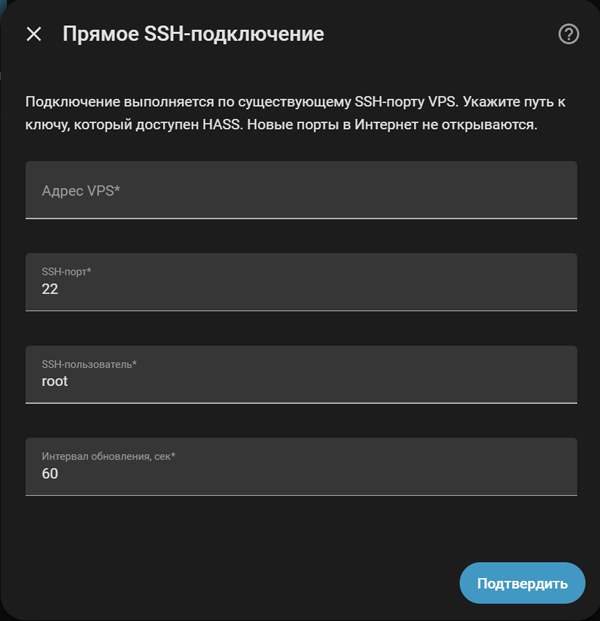
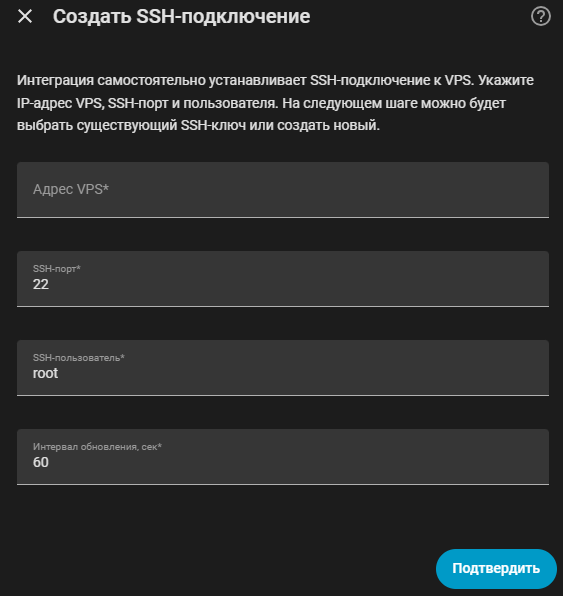
feat: improve VPS diagnostics and refresh state

diff --git a/custom_components/zvertbotvps/sensor.py b/custom_components/zvertbotvps/sensor.py
@@ -324,17 +324,28 @@ class VPSFreshnessSensor(VPSBaseEntity):
 
     @property
     def native_value(self):
-        value = self.coordinator.data.get("updated_at")
+        value = self.coordinator.last_refresh
         if not value:
             return None
+
         timestamp = dt_util.parse_datetime(value)
         if timestamp is None:
             return None
-        return round(max(0, (dt_util.utcnow() - timestamp).total_seconds() / 60), 1)
+
+        return round(
+            max(
+                0,
+                (dt_util.utcnow() - timestamp).total_seconds() / 60,
+            ),
+            1,
+        )
 
     @property
     def extra_state_attributes(self):
-        return {"updated_at": self.coordinator.data.get("updated_at")}
+        return {
+            "last_refresh": self.coordinator.last_refresh,
+            "server_updated_at": self.coordinator.data.get("updated_at"),
+        }
 
 
 class VPSConnectionStateSensor(VPSBaseEntity):
@@ -352,7 +363,9 @@ class VPSConnectionStateSensor(VPSBaseEntity):
     def extra_state_attributes(self):
         return {
             "mode": self.coordinator.mode,
+            "port": self.coordinator.connection_port,
             "last_success": self.coordinator.last_success,
+            "last_refresh": self.coordinator.last_refresh,
             "last_error": self.coordinator.last_error,
             "consecutive_failures": self.coordinator.consecutive_failures,
             "next_retry": self.coordinator.next_retry,
@@ -379,50 +392,137 @@ class VPSSSHKeySensor(VPSBaseEntity):
         self._attr_unique_id = f"{coordinator.entry.entry_id}_ssh_key"
 
     @property
-    def native_value(self):
-        from pathlib import Path
-
-        path = Path(
-            str(self.coordinator.settings.get("key_path", ""))
+    def _key_path(self) -> Path:
+        configured = self.coordinator.settings.get("key_path")
+        return Path(
+            str(configured or "/config/ssh/vps_key")
         ).expanduser()
+
+    @property
+    def native_value(self):
+        path = self._key_path
         return "найден" if path.is_file() else "не найден"
 
     @property
     def extra_state_attributes(self):
-        from pathlib import Path
         import base64
         import hashlib
         from datetime import datetime
 
-        path = Path(
-            str(self.coordinator.settings.get("key_path", ""))
-        ).expanduser()
+        coordinator = self.coordinator
+        path = self._key_path
         public_path = Path(f"{path}.pub")
 
         fingerprint = None
+
+        # Prefer the public key file when available.
         if public_path.is_file():
             try:
-                parts = public_path.read_text(encoding="utf-8").split()
+                parts = public_path.read_text(
+                    encoding="utf-8"
+                ).split()
+
                 if len(parts) >= 2:
-                    blob = base64.b64decode(parts[1], validate=True)
-                    fingerprint = "SHA256:" + base64.b64encode(
-                        hashlib.sha256(blob).digest()
-                    ).decode("ascii").rstrip("=")
+                    blob = base64.b64decode(
+                        parts[1],
+                        validate=True,
+                    )
+                    fingerprint = (
+                        "SHA256:"
+                        + base64.b64encode(
+                            hashlib.sha256(blob).digest()
+                        ).decode("ascii").rstrip("=")
+                    )
             except (OSError, ValueError, IndexError):
                 fingerprint = None
 
+        # If .pub is missing or invalid, ask ssh-keygen to derive
+        # the public key/fingerprint from the private key.
+        if fingerprint is None and path.is_file():
+            try:
+                import shutil
+                import subprocess
+
+                ssh_keygen = shutil.which("ssh-keygen")
+                if ssh_keygen:
+                    result = subprocess.run(
+                        [
+                            ssh_keygen,
+                            "-lf",
+                            str(path),
+                            "-E",
+                            "sha256",
+                        ],
+                        capture_output=True,
+                        text=True,
+                        stdin=subprocess.DEVNULL,
+                        timeout=5,
+                        check=False,
+                    )
+
+                    if result.returncode == 0:
+                        parts = result.stdout.strip().split()
+                        if len(parts) >= 2:
+                            fingerprint = parts[1]
+            except (
+                OSError,
+                subprocess.SubprocessError,
+                ValueError,
+            ):
+                fingerprint = None
+
         modified = None
+        permissions = None
+
         if path.is_file():
             try:
+                stat = path.stat()
+                permissions = oct(stat.st_mode & 0o777)
                 modified = datetime.fromtimestamp(
-                    path.stat().st_mtime
+                    stat.st_mtime
                 ).astimezone().strftime("%d.%m.%Y %H:%M")
             except OSError:
-                modified = None
+                pass
 
-        return {
-            "mode": self.coordinator.mode,
+        attributes = {
+            "mode": coordinator.mode,
+            "transport": (
+                "ssh"
+                if coordinator.mode == "ssh"
+                else "tunnel"
+            ),
             "path": str(path),
+            "key_status": (
+                "найден" if path.is_file() else "не найден"
+            ),
             "fingerprint": fingerprint,
-            "permissions": oct(path.stat().st_mode & 0o777) if path.is_file() else None,
+            "modified": modified,
+            "permissions": permissions,
+            "port": coordinator.connection_port,
         }
+
+        if coordinator.mode == "ssh":
+            attributes.update(
+                {
+                    "host": str(
+                        coordinator.settings.get("host", "")
+                    ),
+                    "username": str(
+                        coordinator.settings.get(
+                            "username",
+                            "",
+                        )
+                    ),
+                }
+            )
+        else:
+            attributes.update(
+                {
+                    "status_url": str(
+                        coordinator.status_url
+                    ),
+                    "status_port": coordinator.connection_port,
+                }
+            )
+
+        return attributes

diff --git a/custom_components/zvertbotvps/coordinator.py b/custom_components/zvertbotvps/coordinator.py
@@ -50,6 +50,7 @@ class ZverTBotCoordinator(DataUpdateCoordinator[dict[str, Any]]):
         self._last_success: str | None = None
         self._last_error: str | None = None
         self._consecutive_failures = 0
+        self._last_refresh: datetime | None = None
         if self.mode == MODE_SSH:
             self._ssh_client = SSHStatusClient(
                 str(self.settings["host"]),
@@ -91,6 +92,7 @@ class ZverTBotCoordinator(DataUpdateCoordinator[dict[str, Any]]):
             self._mark_connection_failure(str(err))
             raise
         self._mark_connection_success()
+        self._mark_refresh()
         return result
 
     async def _async_update_ssh(self) -> dict[str, Any]:
@@ -137,7 +139,11 @@ class ZverTBotCoordinator(DataUpdateCoordinator[dict[str, Any]]):
             self._mark_connection_failure(str(err))
             raise
         self._mark_connection_success()
+        self._mark_refresh()
         return result
+
+    def _mark_refresh(self) -> None:
+        self._last_refresh = datetime.now(timezone.utc)
 
     def _mark_connection_success(self) -> None:
         self._connection_state = "connected"
@@ -164,6 +170,37 @@ class ZverTBotCoordinator(DataUpdateCoordinator[dict[str, Any]]):
     @property
     def last_error(self) -> str | None:
         return self._last_error
+
+    @property
+    def last_refresh(self) -> str | None:
+        if self._last_refresh is None:
+            return None
+        return self._last_refresh.replace(microsecond=0).isoformat()
+
+    @property
+    def connection_port(self) -> int | None:
+        if self.mode == MODE_SSH:
+            try:
+                return int(
+                    self.settings.get("port", DEFAULT_SSH_PORT)
+                )
+            except (TypeError, ValueError):
+                return DEFAULT_SSH_PORT
+
+        from urllib.parse import urlparse
+
+        try:
+            parsed = urlparse(str(self.status_url))
+            if parsed.port is not None:
+                return parsed.port
+            if parsed.scheme == "https":
+                return 443
+            if parsed.scheme == "http":
+                return 80
+        except ValueError:
+            pass
+
+        return None
 
     @property
     def consecutive_failures(self) -> int:
